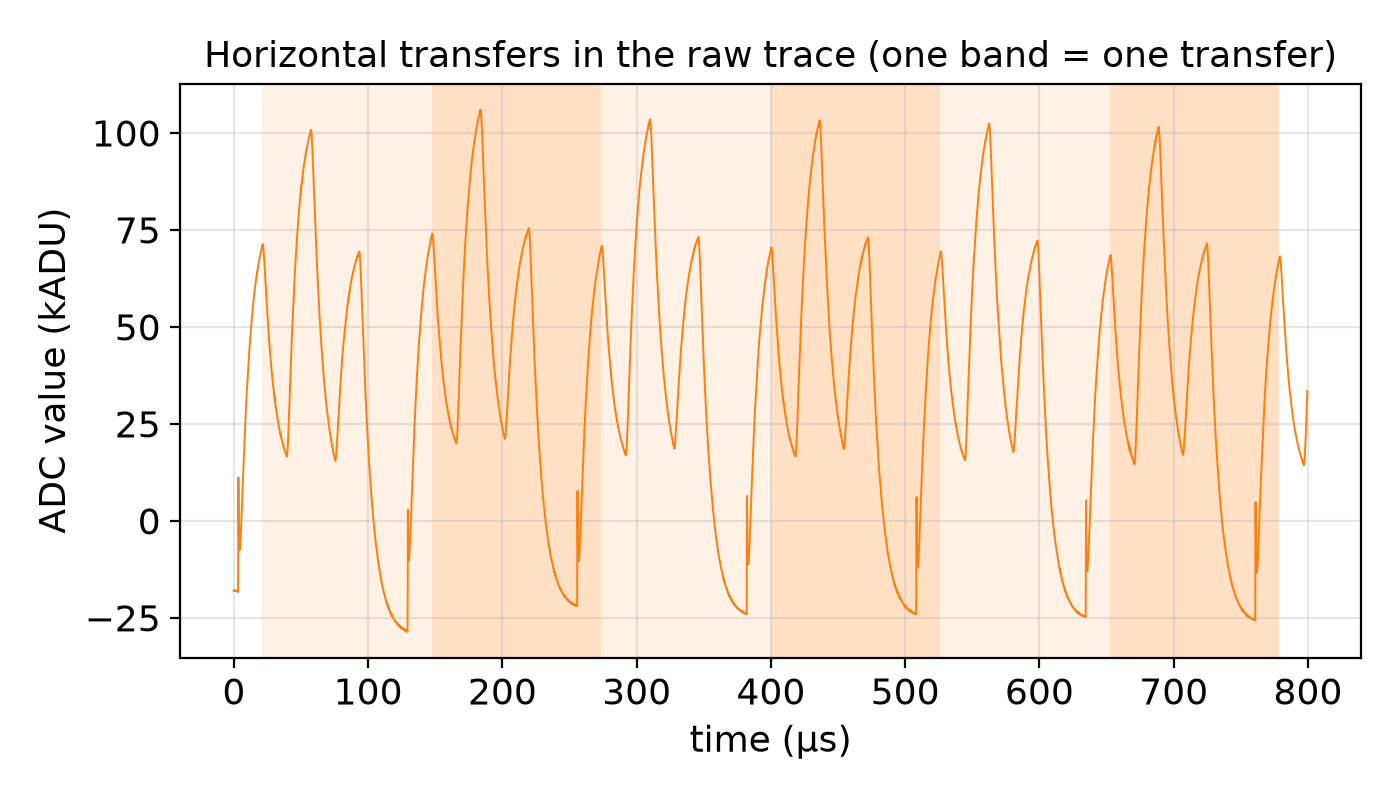
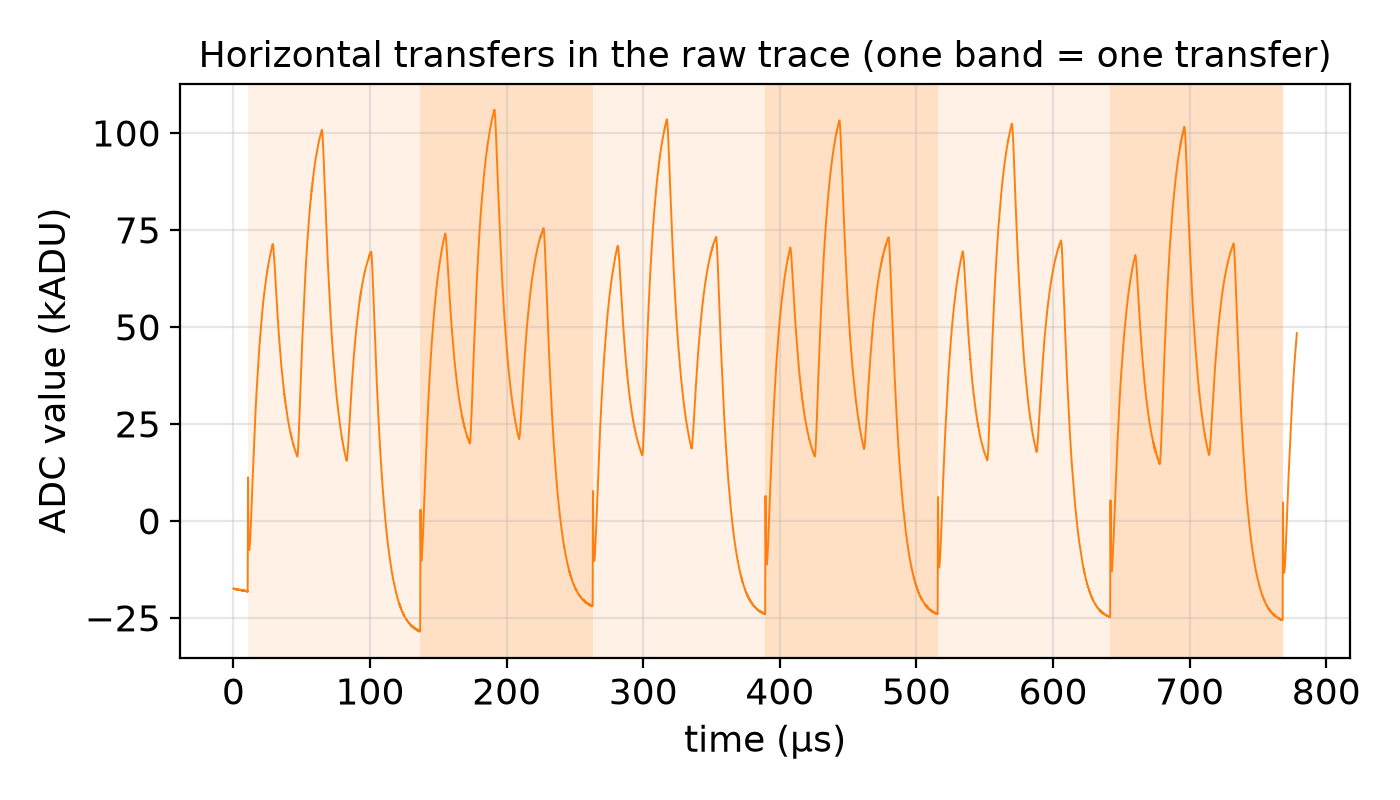
Collab deck: transfer bands start at the spike that begins each transfer; Allan deviation over 210 traces with per-pixel drift removed and the 500-skip image point; AUC defined; unusable example's setting stated

diff --git a/docs/collab_meeting_2026-11-21/build_deck.py b/docs/collab_meeting_2026-11-21/build_deck.py
@@ -216,13 +216,13 @@ two_fig_slide(S[3], "Trace Breakdown: Vertical Clocks", [
     "The clock edges couple into the output: a waveform of ≈40 000 ADU peak-to-peak, repeated at every transfer",
     "Features: peak-to-peak, lowest and highest point, change from the first to the last transfer"],
     "v_zoom.png", "v_setting.png",
-    "Right: lowering the V low rails by 0.5 V (TG by 0.4 V) deepens only this waveform, peak-to-peak 40.7 → 46.3 kADU. Board 101, ch0, 12 Oct.")
+    "Right: lowering the V low rails by 0.5 V (TG by 0.4 V) deepens only this waveform, peak-to-peak 41 → 46 kADU. Bands start at the spike that begins each transfer. Board 101, ch0, 12 Oct.")
 two_fig_slide(S[4], "Trace Breakdown: Horizontal Clocks", [
     "H1–H3 move the charge along the serial register to the sense node: one transfer per pixel, 126 µs each",
     "The largest waveform in the trace (≈130 000 ADU peak-to-peak); it sets how the output looks before the first skip",
     "Features: peak-to-peak, lowest and highest point, scatter between transfers, change from first to last transfer"],
     "h_zoom.png", "h_setting.png",
-    "Right: lowering the H low rails by 0.5 V changes only the horizontal waveform, peak-to-peak 126 → 144 kADU. Board 101, ch0, 12 Oct.")
+    "Right: lowering the H low rails by 0.5 V changes only the horizontal waveform, peak-to-peak 126 → 144 kADU. Bands start at the spike that begins each transfer. 12 Oct.")
 two_fig_slide(S[5], "Trace Breakdown: Skips Region", [
     "After the horizontal transfer the pixel's charge is measured 500 times (skips), 32.6 µs per skip",
     "The baseline drifts by ≈3 000 ADU across a pixel, but each skip subtracts its own pedestal, so the CDS stays flat",
@@ -238,12 +238,12 @@ text(s, 0.6, 4.35, 5.9, 0.95, [
     "CDS = mean(pedestal) − mean(signal): one measurement",
 ], size=14)
 eq(s, "sigma1", 0.8, 5.45, scale=0.95)
-text(s, 0.6, 6.05, 5.9, 0.9, [("**Single-skip noise σ₁:** compare consecutive skips of one pixel; the charge cancels, the noise does not. This trace: σ₁ = 4.9 ADU.", {"level": None})], size=14)
+text(s, 0.6, 6.05, 5.9, 0.9, [("**Single-skip noise σ₁:** compare consecutive skips of one pixel; the charge cancels, the noise does not. Board 101 ch0: σ₁ ≈ 5.1 ADU.", {"level": None})], size=14)
 pic(s, "allan.png", 7.0, 1.25, w=5.4)
 text(s, 7.0, 4.85, 5.7, 0.95, [("**Allan deviation:** split the pixel's skips into blocks of N, average each block (ȳ₁, ȳ₂, …), and compare neighbouring blocks:", {"level": None})], size=13)
 eq(s, "allan", 7.3, 5.55, scale=0.8)
-text(s, 7.0, 6.05, 5.7, 0.95, [("Dashed line: pure white noise, σ₁/√N. Averaging helps up to ≈60 skips; beyond that slow noise (1/f) stops it.", {"level": None})], size=13)
-cite(s, "Allan deviation: D. W. Allan, Proc. IEEE 54, 221 (1966). A slow drift that is the same in every pixel (readout electronics; it cancels in images) is subtracted first.")
+text(s, 7.0, 6.05, 5.7, 0.95, [("Dashed: pure white noise, σ₁/√N. The 500-skip images (star) sit on that line: averaging keeps working all the way to 500 skips.", {"level": None})], size=13)
+cite(s, "Allan, Proc. IEEE 54, 221 (1966). Board 101 ch0, 210 traces (2–3 Nov). The readout level drifts slowly during each pixel; a straight line is removed from each pixel first, since a drift would make this statistic grow with N.")
 
 # ------------------------------------------------------------------ 7: settings apart (one PCA panel)
 s = S[7]; clear(s); title(s, "Telling Settings Apart")
@@ -494,7 +494,7 @@ cite(s, "Interval: bootstrap over the 23 session-H packets (Efron 1979). One boa
 # ------------------------------------------------------------------ 20: usability
 s = S[20]; clear(s); title(s, "EDT on Our Data: Usable or Not?")
 pic(s, "usable.png", 0.6, 1.3, w=7.4)
-caption(s, 0.6, 4.8, 7.4, "Left: a usable image, clear 0, 1, 2 e⁻ peaks. Right: an unusable one, the peaks are not resolved (examples from 2–3 Nov).", size=12, h=0.5)
+caption(s, 0.6, 4.8, 7.4, "Left: usable, nominal setting (3 Nov, ch0): clear 0, 1, 2 e⁻ peaks. Right: unusable (2 Nov, ch2), horizontal clock delays halved (1800 → 900 cycles): the fit fails (χ²/ndf = 11). At that setting ch0, ch1 and ch3 were still usable.", size=11, h=0.55)
 text(s, 8.3, 1.3, 4.4, 3.6, [
     "**82 of 381** v3 images (22 %) could not be used: the fit failed or raised a flag (dark charge not constrained, bad χ²)",
     "**Usable** = fit converged, no flags, λ > 0.005 e⁻/pixel",
@@ -506,7 +506,7 @@ table(s, [["sealed test (H)", "AUC", "unusable caught", "usable blocked"],
           ["voltages + trace", "0.985", "**18 of 20**", "0 of 67"]],
       0.6, 5.4, 7.4, col_w=[2.3, 1.2, 2.0, 1.9], size=14, row_h=0.42)
 text(s, 8.3, 5.3, 4.4, 1.6, [("The trace catches most broken settings before an image is spent on them, and blocks none of the good ones.", {"level": None})], size=15)
-cite(s, "Trained on session G, tested once on H, test amplifier left out. AUC: probability that a usable image is ranked above an unusable one.")
+cite(s, "AUC (area under the ROC curve): the chance that a randomly chosen usable image gets a higher P(usable) than a randomly chosen unusable one. 1 = perfect, 0.5 = guessing. Trained on session G, tested once on H, test amplifier left out.")
 
 # ------------------------------------------------------------------ 21: why not directly
 s = S[21]; clear(s); title(s, "Can ML Find Good Settings Faster? Not Directly")

diff --git a/docs/collab_meeting_2026-11-21/figs_v2.py b/docs/collab_meeting_2026-11-21/figs_v2.py
@@ -35,8 +35,18 @@ def cycles(fl, bit, period):
     return st[np.r_[np.diff(st), 0] == period]          # transfers followed by another one exactly one period later
 
 
+def spike_starts(v, st, look):
+    """True start of each transfer: the short spike (largest |2nd difference|) in the `look` samples before the flag rises."""
+    out = []
+    for s0 in st:
+        seg = v[max(s0 - look, 1):s0 + 1]
+        d2 = np.abs(np.diff(seg, 2))
+        out.append(max(s0 - look, 1) + 1 + int(np.argmax(d2)))
+    return np.array(out)
+
+
 def mean_cycle(v, fl, bit, period):
-    st = cycles(fl, bit, period)
+    st = spike_starts(v, cycles(fl, bit, period), period // 3)
     W = np.array([v[s:s + period] for s in st]); W = W - W[:, :5].mean(1, keepdims=True)
     return np.median(W, 0)
 
@@ -44,10 +54,11 @@ def mean_cycle(v, fl, bit, period):
 if want("clocks"):
     m0, v0, f0 = oct12("20261012_185604"); mV, vV, fV = oct12("20261012_204040"); mH, vH, fH = oct12("20261012_205952")
     for bit, per, n, col, name, lab in [(7, 5404, 3, "C0", "v", "Vertical"), (6, 1894, 6, "C1", "h", "Horizontal")]:
-        allst = starts(f0, bit) if False else starts(bit, f0)
+        allst = starts(bit, f0)
         allst = allst[allst >= cycles(f0, bit, per)[0]][:n + 1]     # consecutive transfers, whatever their spacing
+        allst = spike_starts(v0, allst, per // 3)                  # move each boundary to the spike that starts the transfer
         st = allst[:n]; ends = allst[1:n + 1]
-        a, b = st[0] - per // 6, ends[-1] + per // 6
+        a, b = max(st[0] - per // 12, 0), ends[-1] + per // 12
         scale = 1e3 if bit == 7 else 1e6
         t = (np.arange(a, b) - a) / FS * scale
         fig, ax = plt.subplots(figsize=(7, 4))
@@ -94,22 +105,33 @@ if want("drift"):
     fig.tight_layout(); fig.savefig(f"{OUT}/skips_drift.png"); plt.close(fig)
 
 if want("allan"):
-    C = np.asarray(z["cds"], float)[[1, 2, 3, 4, 6, 7, 8, 9], 20:]
-    C = C - C.mean(1, keepdims=True)
-    C = C - C.mean(0, keepdims=True)        # remove the slow drift that is identical in every pixel (electronics; cancels in images)
-    s1 = np.std(np.diff(C, axis=1)) / np.sqrt(2)
-    Ns = np.array([1, 2, 4, 8, 16, 30, 60, 120, 240]); al = []
+    X = []
+    for f in sorted(glob.glob(os.path.join(ROOT, "processed/L1_*/traces/ref*_acm101_ch0.npz"))):
+        zz = np.load(f)
+        if "cds" in zz.files and zz["cds"].shape == (10, 500):
+            X.append(np.asarray(zz["cds"], float)[[1, 2, 3, 4, 6, 7, 8, 9], 20:])
+    X = np.array(X); n = X.shape[2]; k = np.arange(n)
+    A = X.reshape(-1, n); p = np.polyfit(k, A.T, 1)
+    D = A - (np.outer(p[0], k) + p[1][:, None])                 # remove a straight-line drift from each pixel
+    s1 = np.std(np.diff(A, axis=1)) / np.sqrt(2)
+    Ns = np.array([1, 2, 4, 8, 16, 30, 60, 120]); al = []
     for N in Ns:
-        nb = C.shape[1] // N
-        Y = C[:, :nb * N].reshape(C.shape[0], nb, N).mean(2)
+        nb = n // N; Y = D[:, :nb * N].reshape(D.shape[0], nb, N).mean(2)
         al.append(np.sqrt(0.5 * np.mean(np.diff(Y, axis=1) ** 2)))
+    img = []
+    for dd in sorted(glob.glob(os.path.join(ROOT, "processed/L1_*"))):
+        L = json.load(open(dd + "/labels.json"))
+        img += [l["sigma_e"] * l["gain_adu_per_e"] for im in L["images"] if im["board"] == 101 for l in im["labels"] if l["channel"] == 0 and not l["flags"]]
+    im500 = float(np.median(img))
     fig, ax = plt.subplots(figsize=(6.5, 4.3))
-    ax.loglog(Ns, al, "o-", color="C0", label="measured (this trace)")
-    ax.loglog(Ns, s1 / np.sqrt(Ns), "--", color="gray", label=f"pure white noise: {s1:.1f} ADU / √N")
+    NN = np.array([1, 500])
+    ax.loglog(NN, s1 / np.sqrt(NN), "--", color="gray", label=f"pure white noise: σ₁/√N, σ₁ = {s1:.1f} ADU")
+    ax.loglog(Ns, al, "o-", color="C0", label=f"measured in the trace ({X.shape[0]} traces)")
+    ax.loglog([500], [im500], "*", color="C3", ms=16, label=f"measured in the 500-skip images: {im500:.2f} ADU")
     ax.set_xlabel("N, number of skips averaged"); ax.set_ylabel("noise of the N-skip average (ADU)")
-    ax.set_title("Does averaging skips keep reducing the noise?")
-    ax.legend(); fig.tight_layout(); fig.savefig(f"{OUT}/allan.png"); plt.close(fig)
-    print("sigma1 %.2f ADU; Allan N=30 %.2f (white %.2f); N=240 %.2f (white %.2f)" % (s1, al[5], s1 / np.sqrt(30), al[-1], s1 / np.sqrt(240)))
+    ax.set_title("Averaging more skips keeps reducing the noise")
+    ax.legend(fontsize=10); fig.tight_layout(); fig.savefig(f"{OUT}/allan.png"); plt.close(fig)
+    print("traces", X.shape, "sigma1 %.2f; allan" % s1, np.round(al, 3), "image500 %.3f white500 %.3f" % (im500, s1 / np.sqrt(500)))
 
 if want("pca"):
     im = Image.open(os.path.join(OUT, "oct12_feature_space.png")); W, H = im.size
